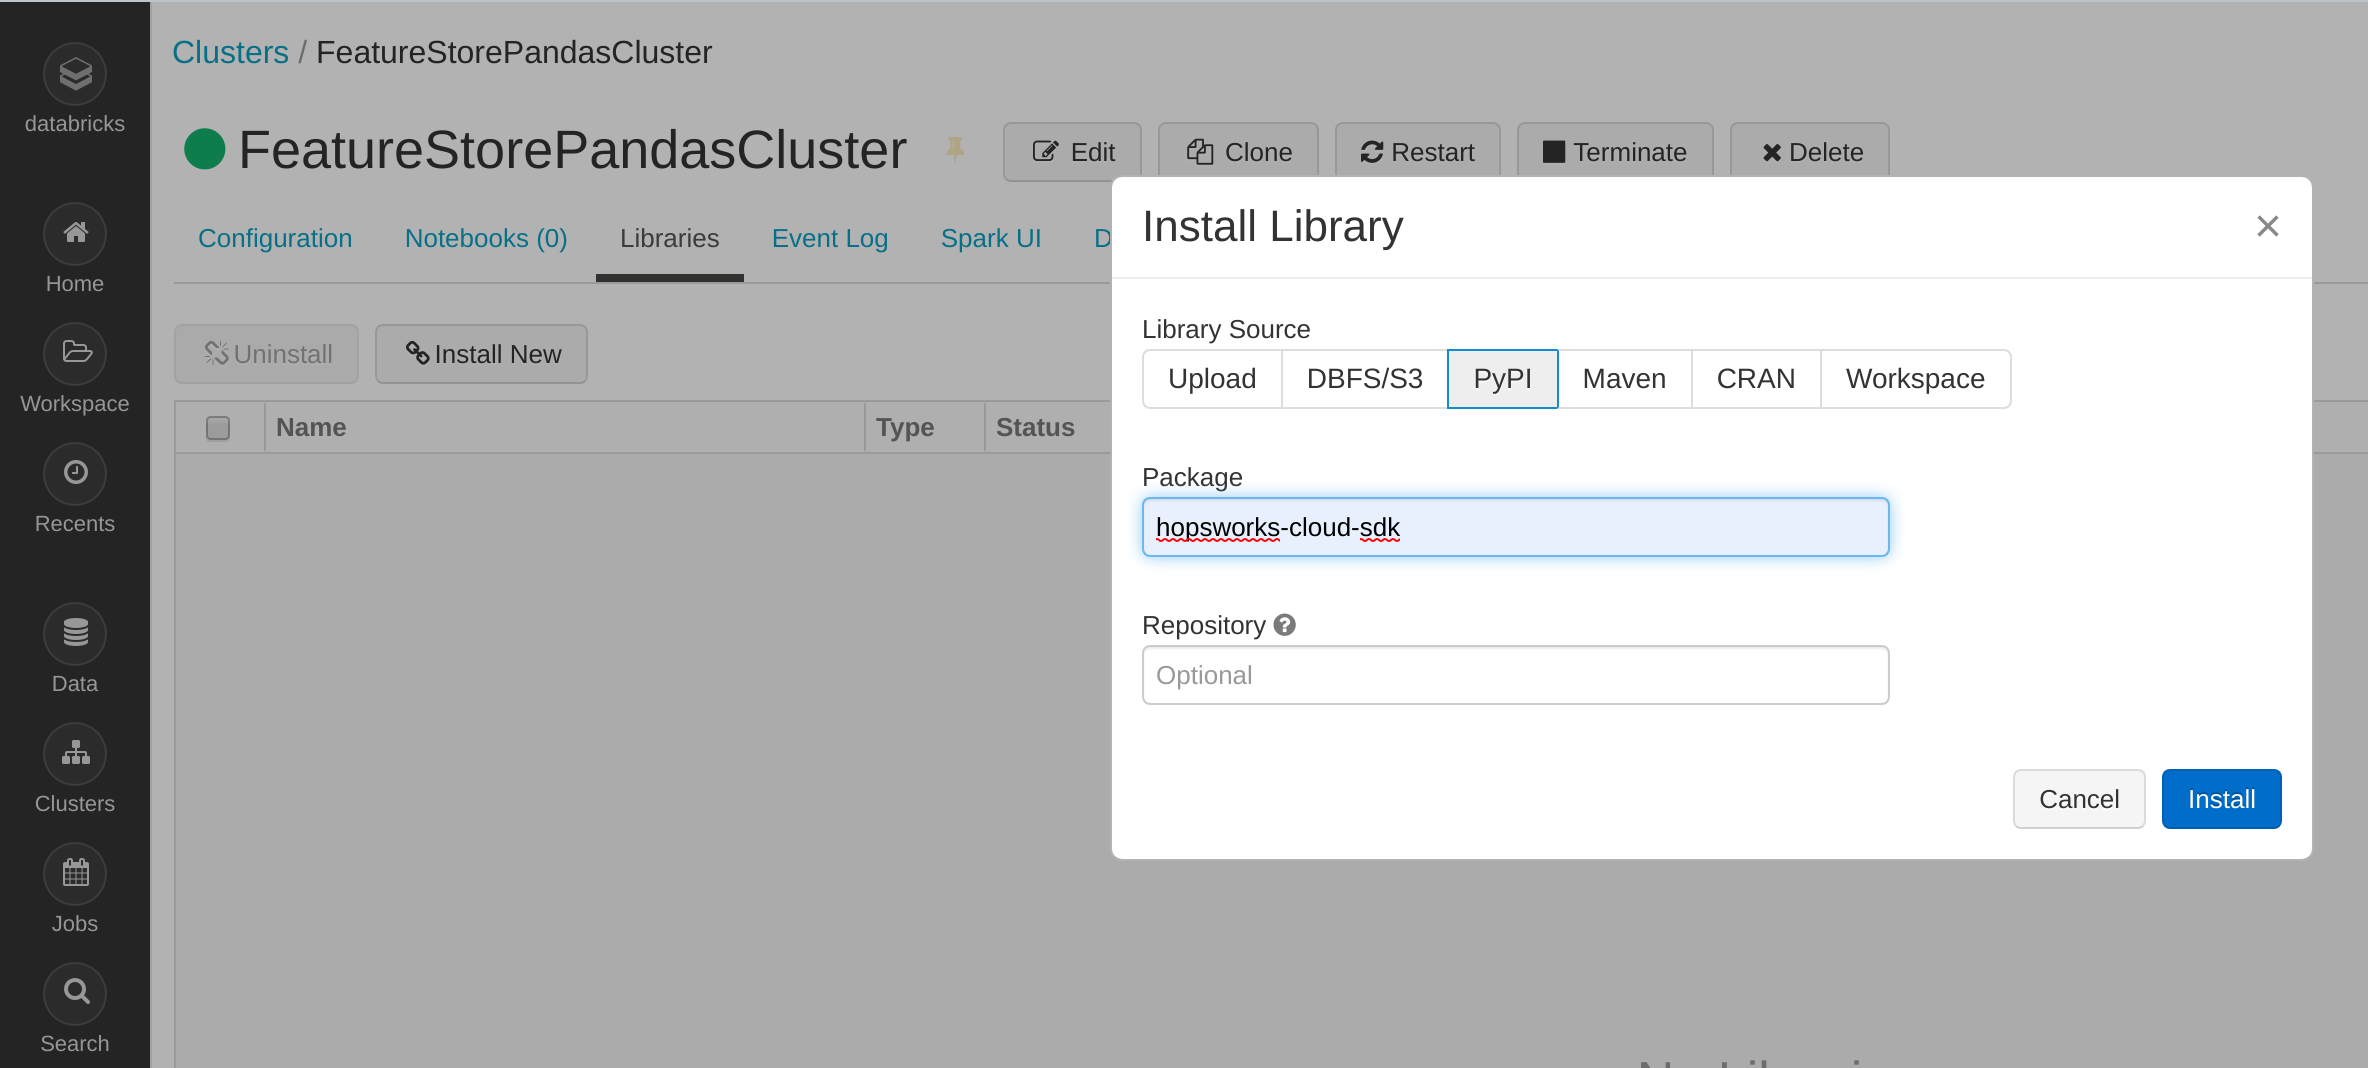
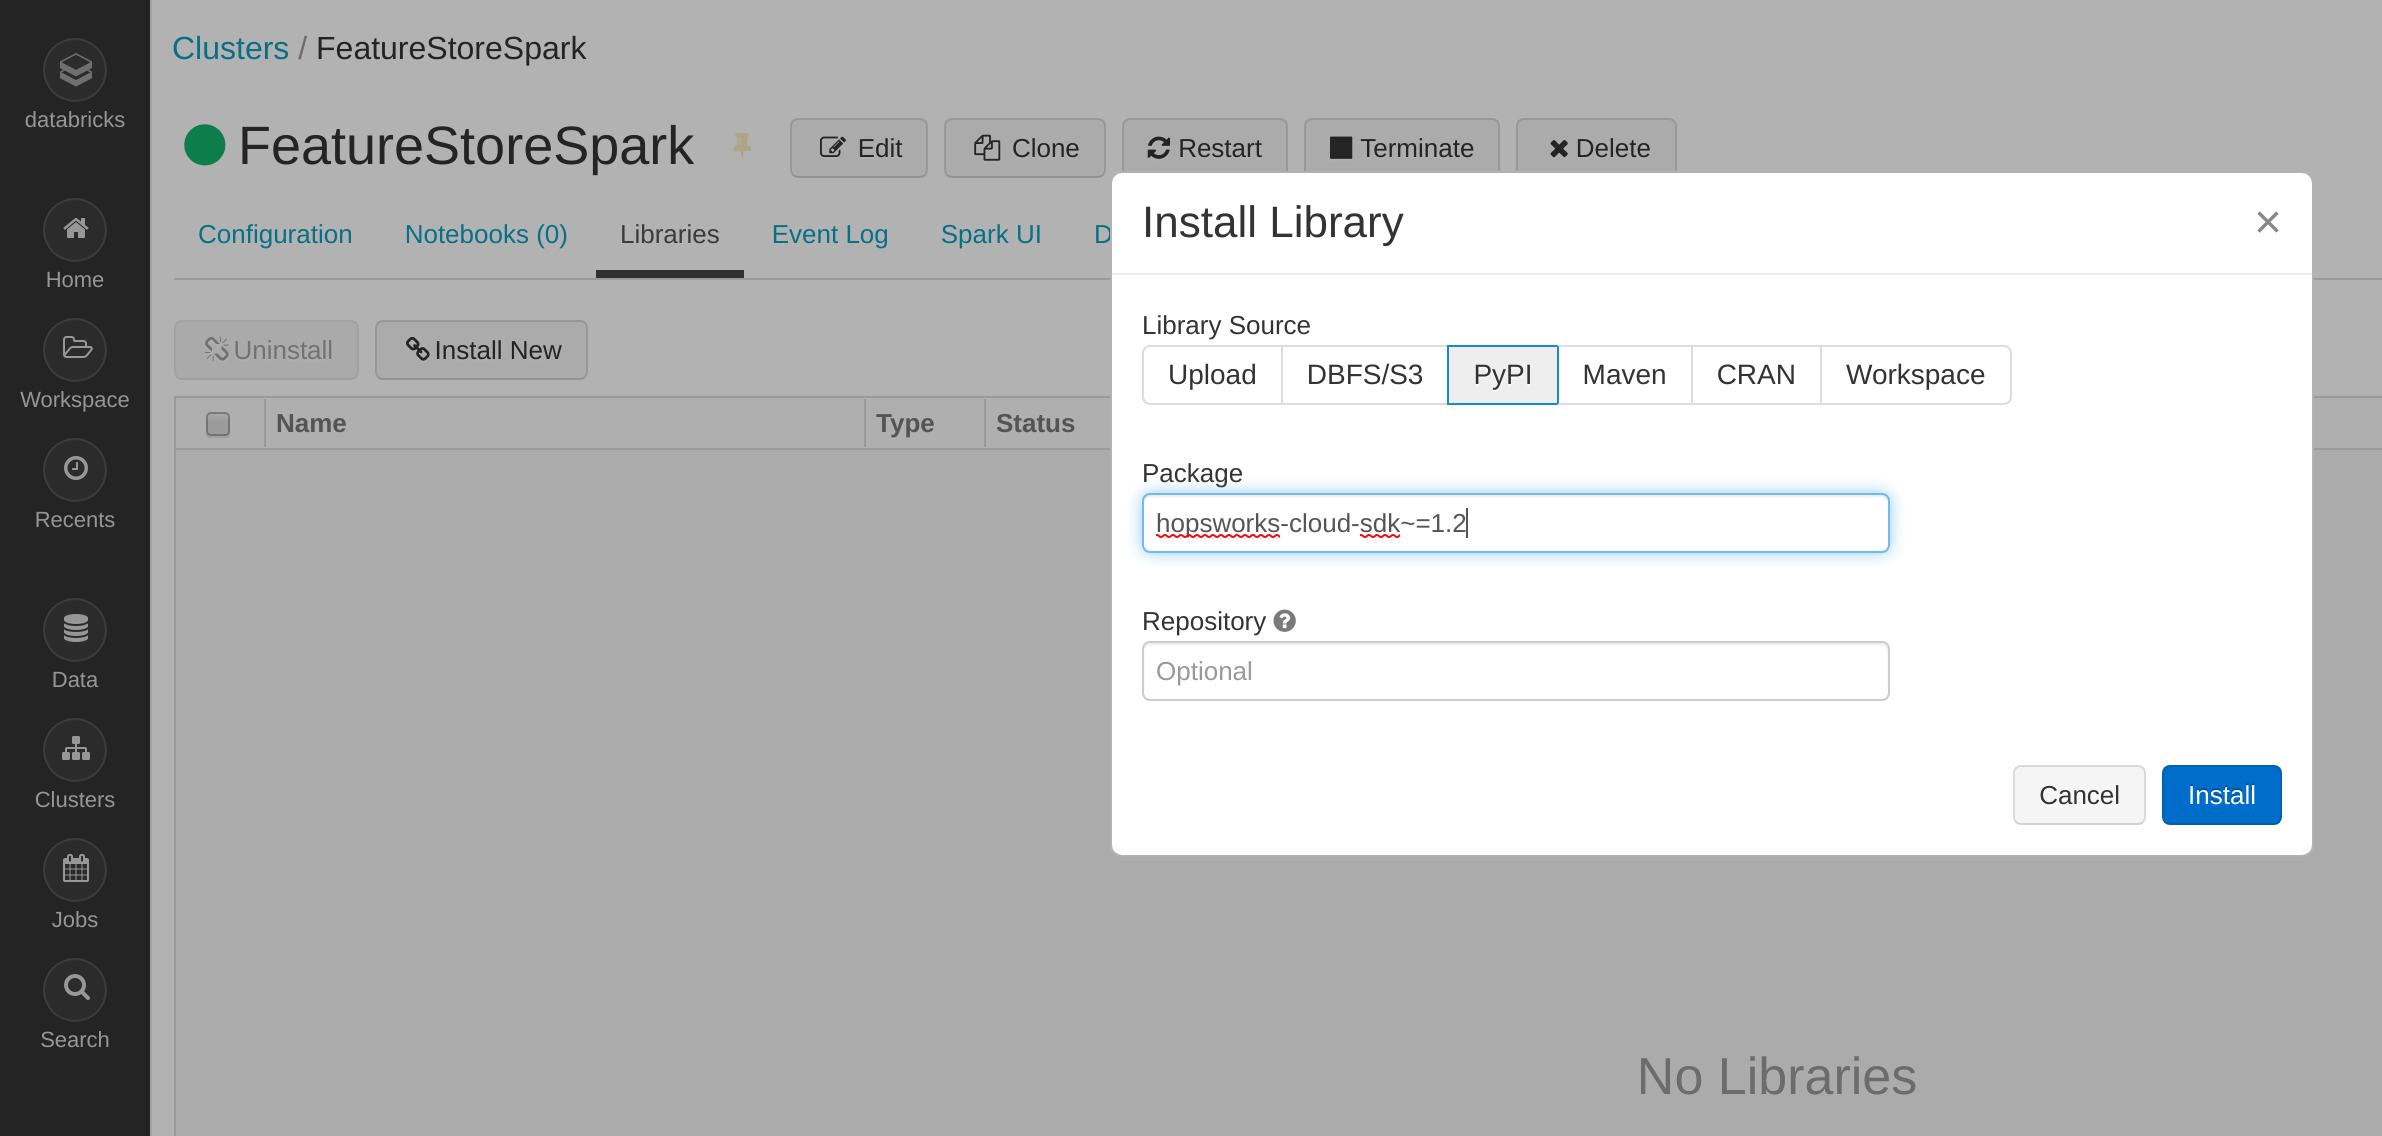
More detailed installation

diff --git a/docs/featurestore/integrations/guides/databricks.rst b/docs/featurestore/integrations/guides/databricks.rst
@@ -213,12 +213,22 @@ Step 4.3: Installing the DataFrames SDK
 ~~~~~~~~~~~~~~~~~~~~~~~~~~~~~~~~~~~~~~~
 In the Databricks UI, go to *Clusters* and select your cluster. Select *Libraries*.
 Make sure that hopsworks-cloud-sdk is not installed, make sure to uninstall it if that's the case.
-Then *Install New*. As *Library Source* choose *PyPI* and fill in *hops* into the *Package* field.
+Then *Install New*. As *Library Source* choose *PyPI* and fill in *hops~=YOUR_HOPSWORKS_VERSION*
+into the *Package* field (YOUR_HOPSWORKS_VERSION needs to match the major version of Hopsworks):
 
 .. _databricks_install_hops.png: ../../../_images/databricks_install_hops.png
 .. figure:: ../../../imgs/feature_store/databricks_install_hops.png
     :alt: Installing the DataFrames SDK on Databricks
     :target: `databricks_install_hops.png`_
+    :align: center
+    :figclass: align-center
+
+You can find your Hopsworks version under Settings/Versions inside your Hopsworks project:
+
+.. _hopsworks_version.png: ../../../_images/hopsworks_version.png
+.. figure:: ../../../imgs/feature_store/hopsworks_version.png
+    :alt: Creating a Feature Store API Key
+    :target: `hopsworks_version.png`_
     :align: center
     :figclass: align-center
 
@@ -300,12 +310,22 @@ Step 4.1: Installing the Pandas SDK
 ~~~~~~~~~~~~~~~~~~~~~~~~~~~~~~~~~~~
 
 The feature store library needs to be installed to connect to it. In the Databricks UI, go to *Clusters* and select your cluster.
-Select *Libraries* and then *Install New*. As *Library Source* choose *PyPI* and fill in *hopsworks-cloud-sdk* into the *Package* field:
+Select *Libraries* and then *Install New*. As *Library Source* choose *PyPI* and fill in *hopsworks-cloud-sdk~=YOUR_HOPSWORKS_VERSION*
+into the *Package* field (YOUR_HOPSWORKS_VERSION needs to match the major version of Hopsworks):
 
 .. _databricks_install_cloud.png: ../../../_images/databricks_install_cloud.png
 .. figure:: ../../../imgs/feature_store/databricks_install_cloud.png
     :alt: Installing the Pandas SDK on Databricks
     :target: `databricks_install_cloud.png`_
+    :align: center
+    :figclass: align-center
+
+You can find your Hopsworks version under Settings/Versions inside your Hopsworks project:
+
+.. _hopsworks_version.png: ../../../_images/hopsworks_version.png
+.. figure:: ../../../imgs/feature_store/hopsworks_version.png
+    :alt: Creating a Feature Store API Key
+    :target: `hopsworks_version.png`_
     :align: center
     :figclass: align-center
 

diff --git a/docs/featurestore/integrations/guides/custom.rst b/docs/featurestore/integrations/guides/custom.rst
@@ -15,10 +15,10 @@ Select *Api keys*. Give the key a name and select the *job*, *featurestore* and 
 Copy the key into your clipboard and put it in a file called featurestore.key on the environment from which you want to
 access the Feature Store.
 
-.. _sagemaker_api_key.png: ../../../_images/sagemaker_api_key.png
-.. figure:: ../../../imgs/feature_store/sagemaker_api_key.png
+.. _custom_api_key.png: ../../../_images/custom_api_key.png
+.. figure:: ../../../imgs/feature_store/custom_api_key.png
     :alt: Creating a Feature Store API Key
-    :target: `sagemaker_api_key.png`_
+    :target: `custom_api_key.png`_
     :align: center
     :figclass: align-center
 
@@ -26,9 +26,21 @@ Step 2: Installing the Pandas SDK
 ---------------------------------
 
 To be able to access the Hopsworks Feature Store, the hopsworks-cloud-sdk library needs to be installed.
-You can install the SDK with pip::
+You can install the SDK with pip. The major version of hopsworks-cloud-sdk needs to match the major version
+of Hopsworks.
 
-    !pip install hopsworks-cloud-sdk
+.. code-block:: bash
+
+    pip install hopsworks-cloud-sdk~=YOUR_HOPSWORKS_VERSION
+
+You can find your Hopsworks version under Settings/Versions inside your Hopsworks project:
+
+.. _hopsworks_version.png: ../../../_images/hopsworks_version.png
+.. figure:: ../../../imgs/feature_store/hopsworks_version.png
+    :alt: Creating a Feature Store API Key
+    :target: `hopsworks_version.png`_
+    :align: center
+    :figclass: align-center
 
 Step 3: Connecting to the Feature Store
 ---------------------------------------

diff --git a/docs/featurestore/integrations/guides/sagemaker.rst b/docs/featurestore/integrations/guides/sagemaker.rst
@@ -106,12 +106,24 @@ Step 3: Installing the Pandas SDK
 ---------------------------------
 
 To be able to access the Hopsworks Feature Store, the hopsworks-cloud-sdk library needs to be installed.
-One way of achieving this is by opening a Python notebook in SageMaker and installing the latest
-hopsworks-cloud-sdk. Note that the library will not be persistent. For information around how to permanently
+One way of achieving this is by opening a Python notebook in SageMaker and installing the
+hopsworks-cloud-sdk. The major version of hopsworks-cloud-sdk needs to match the major version
+of Hopsworks. Note that the library will not be persistent. For information around how to permanently
 install a library to Sagemaker, see
-`Install External Libraries and Kernels in Notebook Instances <https://docs.aws.amazon.com/sagemaker/latest/dg/nbi-add-external.html>`_. ::
+`Install External Libraries and Kernels in Notebook Instances <https://docs.aws.amazon.com/sagemaker/latest/dg/nbi-add-external.html>`_.
 
-    !pip install hopsworks-cloud-sdk
+.. code-block:: bash
+
+    !pip install hopsworks-cloud-sdk~=YOUR_HOPSWORKS_VERSION
+
+You can find your Hopsworks version under Settings/Versions inside your Hopsworks project:
+
+.. _hopsworks_version.png: ../../../_images/hopsworks_version.png
+.. figure:: ../../../imgs/feature_store/hopsworks_version.png
+    :alt: Creating a Feature Store API Key
+    :target: `hopsworks_version.png`_
+    :align: center
+    :figclass: align-center
 
 Step 4: Connecting to the Feature Store
 ---------------------------------------
